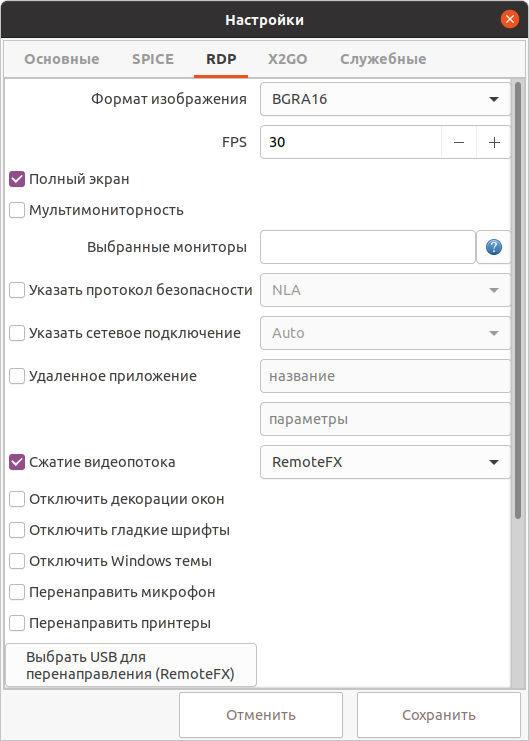
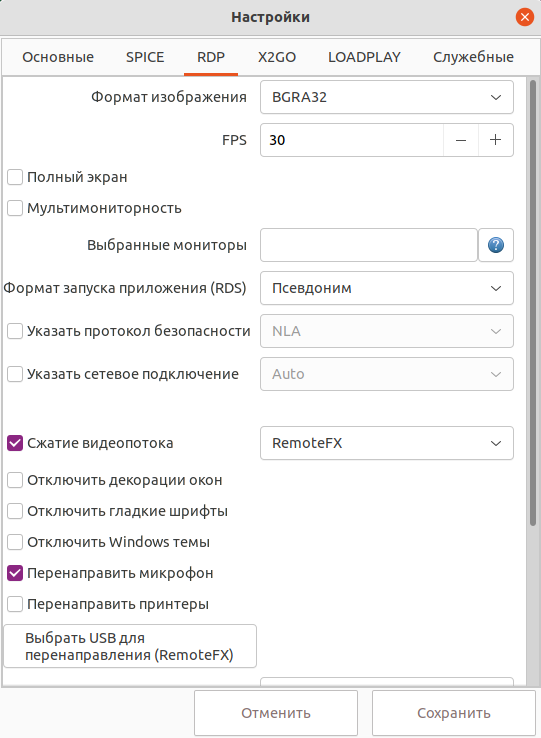
FEATURE TG-16857 Doc

Changed region(s): [[0.0, 0.0, 1.0, 1.0], [0.4839, 0.561, 0.6654, 0.6545]]

diff --git a/backend/web_app/auth/handlers.py b/backend/web_app/auth/handlers.py
@@ -157,7 +157,7 @@ class LogoutHandler(BaseHttpHandler, ABC):
 class VersionHandler(BaseHttpHandler, ABC):
     async def get(self):
         info_dict = {
-            "version": "4.0.0",
+            "version": "4.1.0",
             "year": "2019-2022",
             "url": "https://mashtab.org",
             "copyright": "© mashtab.org",

diff --git a/docs/ru/connect/settings/rdp_settings.md b/docs/ru/connect/settings/rdp_settings.md
@@ -8,36 +8,38 @@
 
 1. Формат изображения определяет количество используемых цветов. Рекомендуется **BGRA32**.
 
-1. Параметр **FPS** задает частоту обновления экрана. Обновляются только изменившиеся области изображения.
+2. Параметр **FPS** задает частоту обновления экрана. Обновляются только изменившиеся области изображения.
 Параметр влияет на загрузку процессора клиента и не влияет на сетевой трафик.
 
-1. При выборе пункта **Полный экран** приложение раскроется на полный экран.
+3. При выборе пункта **Полный экран** приложение раскроется на полный экран.
 
-1. При включенной опции **Мультимониторность** приложение использует до **3** доступных мониторов. Рекомендуется, чтобы 
+4. При включенной опции **Мультимониторность** приложение использует до **3** доступных мониторов. Рекомендуется, чтобы 
 на всех мониторах была задана одинаковая высота изображения. 
 
-1. **Выбранные мониторы**. Указать, какие клиентские мониторы должны использоваться для отображения 
+5. **Выбранные мониторы**. Указать, какие клиентские мониторы должны использоваться для отображения 
 удаленного рабочего стола. Мониторы должны иметь обшие стороны. Параметр
 задается как список id мониторов через запятую. Например: 0,1 - использовать
 мониторы с id 0 и 1.  Чтобы узнать идентификаторы(номера) текущих клиентских мониторов нажмите на знак вопроса.
 Для использования более одного монитора должна быть активирована опция **Мультимониторность**.
 
-1. Если указать сетевое подключение, то RDP-сервер будет адаптировать параметры подключения в зависимости от выбранного 
+6. **Формат запуска приложения (RDS)** определяет вид строкового идентификатора приложения для запуска на RDS.
+ 
+7. Если указать сетевое подключение, то RDP-сервер будет адаптировать параметры подключения в зависимости от выбранного 
 режима для достижения оптимального использования сетевого трафика.
 
-1. При включенной опции **Перенаправлять принтеры** сетевые принтеры будут перенаправлены в ВМ.
+8. При включенной опции **Перенаправлять принтеры** сетевые принтеры будут перенаправлены в ВМ.
 
-1. При включенной опции **Сжатие видеопотока** будет использован указанный cтандарт сжатия видео.
+9. При включенной опции **Сжатие видеопотока** будет использован указанный cтандарт сжатия видео.
 Поддерживаются **AVC420/AVC444/RemoteFX** на Linux и **AVC420/RemoteFX** на Windows.
 
-1. При нажатии на кнопку **Выбрать USB для перенаправления** откроется диалог выбора USB-устройств, которые
+10. При нажатии на кнопку **Выбрать USB для перенаправления** откроется диалог выбора USB-устройств, которые
 будут перенаправлены. Сервер RDP должен поддерживать технологию **RemoteFX USB Redirection**. 
 На клиенте у текущего пользователя должны быть права на открытие конкретных USB-устройств.
  
-1. Поле **Перенаправляемые папки** предназначено для задания списка папок, которые будут перенаправлены в ВМ. 
+11. Поле **Перенаправляемые папки** предназначено для задания списка папок, которые будут перенаправлены в ВМ. 
 Перечислите папки через точку с запятой либо выберите их с помощью селектора **Добавить папку**.
  
-1. При включенной опции **Логировать отладочную информацию**, будет сохраняться в файл отладочная информация
+12. При включенной опции **Логировать отладочную информацию**, будет сохраняться в файл отладочная информация
 при подключении по RDP. Активизация данной опции может замедлить работу приложения. 
             
              

diff --git a/docs/ru/connect/ini_file/example.md b/docs/ru/connect/ini_file/example.md
@@ -2,58 +2,55 @@
 
 Ниже представлен пример файла настроек приложения **VeiL Connect**.
 
-```
 
-[General]
-cur_remote_protocol_index=0
-log_output_to_file=0
+[General]  
+cur_remote_protocol_index=0  
+log_output_to_file=0  
 
-[RemoteViewerConnect]
-ip=192.168.11.145
-port=443
-username=user2
-password=Bazalt1!
-is_ldap=0
-domain=
-to_save_pswd=1
-connect_to_pool=1
-pool_id=2affd5d-eaf2-4c7e-9b19-887cb9a0a862
+[RemoteViewerConnect]  
+ip=192.168.11.145  
+port=443  
+username=user2  
+password=Bazalt1!  
+is_ldap=0  
+domain=  
+to_save_pswd=1  
+connect_to_pool=1  
+pool_id=2affd5d-eaf2-4c7e-9b19-887cb9a0a862  
 
-[SpiceSettings]
-is_spice_client_cursor_visible=0
-full_screen=1
-monitor-mapping=0:1;1:2
+[SpiceSettings]  
+is_spice_client_cursor_visible=0  
+full_screen=1  
+monitor-mapping=0:1;1:2  
 
-[RDPSettings]
-rdp_pixel_format=BGRA16
-rdp_fps=30
-is_rdp_vid_comp_used=1
-rdp_shared_folders=
-is_multimon=0
-full_screen=1
-selectedmonitors=0
-redirect_printers=1
-is_remote_app=0
-remote_app_program=
-remote_app_options=
-is_sec_protocol_assigned=0
-sec_protocol_type=nla
-is_rdp_network_assigned=0
-rdp_network_type=auto
-disable_rdp_decorations=0
-disable_rdp_fonts=0
-disable_rdp_themes=0
-allow_desktop_composition=0
-usb_devices=
-use_rdp_file=0
-rdp_settings_file=
-rdp_args=+menu-anims,+home-drive
-
-[X2GoSettings]
-app_type=1
-session_type=XFCE
-conn_type_assigned=1
-conn_type=modem
-full_screen=1
-
-```
+[RDPSettings]  
+rdp_pixel_format=BGRA16  
+rdp_fps=30  
+is_rdp_vid_comp_used=1  
+rdp_shared_folders=  
+is_multimon=0  
+full_screen=1  
+selectedmonitors=0  
+redirect_printers=1  
+is_remote_app=0  
+remote_app_program=  
+remote_app_options=  
+is_sec_protocol_assigned=0  
+sec_protocol_type=nla  
+is_rdp_network_assigned=0  
+rdp_network_type=auto  
+disable_rdp_decorations=0  
+disable_rdp_fonts=0  
+disable_rdp_themes=0  
+allow_desktop_composition=0  
+usb_devices=  
+use_rdp_file=0  
+rdp_settings_file=  
+rdp_args=+menu-anims,+home-drive  
+  
+[X2GoSettings]  
+app_type=1  
+session_type=XFCE  
+conn_type_assigned=1  
+conn_type=modem  
+full_screen=1  

diff --git a/docs/ru/connect/possible_errors/rdp.md b/docs/ru/connect/possible_errors/rdp.md
@@ -69,19 +69,18 @@
 !!! example ""
     ![image](../../_assets/vdi/thin_client/RDP_server_NLA.jpg)
 
-## Ошибка Remote application error
+## Ошибка удаленного приложения (Remote application error)
 
 !!! example ""
     ![image](../../_assets/vdi/thin_client/remote_app_error.png)
+!!! example ""
+    ![image](../../_assets/vdi/thin_client/remote_app_error_2.png)
 
-Данная ошибка возникает, если выбранное для запуска приложение (**Настройки** -> **RDP** -> 
-**Запустить приложение**) не находится в списке разрешенных для запуска, либо задано неверное название приложения.
+Данная ошибка возникает, если формат запуска приложения не был принят сервером.
 
 Решение:
 
-- См. [Запуск в режиме RemoteApp](../settings/rdp_settings.md).
-- При подключении к RDS пулу деактивируйте **Запустить приложение** в настройках RDP, так как данная настройка
-имеет приоритет над выбором приложения на графической форме (окно с иконками приложений).
+ - В настройках VeiL Connect перейдите на вкладку RDP и смените формат запуска приложения(RDS).
  
 ## Изображение имеет многочисленные артефакты и искажения
  
@@ -120,3 +119,6 @@
  Решение:
  
  - Попробуйте переустановить VeiL Connect, выбрав в установщике сборку FreeRDP на основе OpenH264. 
+
+
+## 

diff --git a/docs/ru/connect/settings/loadplay_settings.md b/docs/ru/connect/settings/loadplay_settings.md
@@ -1,0 +1,17 @@
+# Настройки Loadplay
+
+Loadplay - протокол удаленного доступа на основе RDP. 
+Данный функционал добавлен в версии VeiL Connect 1.12.0 и VeiL брокере версии 4.1.0.
+
+## Подготовка на стороне удаленной машины
+
+- Установите сервер Loadplay.
+
+## Подготовка на стороне тонкого клиента
+
+- Установите клиент Loadplay.
+
+- Перейдите в Настройки VeiL Connect на вкладку LOADPLAY и укажите путь к установленному клиенту.
+
+!!! example "X2Go"
+    ![image](../../_assets/vdi/thin_client/loadplay_settings.png)

diff --git a/docs/ru/connect/possible_errors/common.md b/docs/ru/connect/possible_errors/common.md
@@ -68,6 +68,8 @@
 
 ```
 sudo sed -i '/mozilla\/DST_Root_CA_X3.crt/s/^/#/' /etc/ca-certificates.conf
+```
+```
 sudo update-ca-certificates --fresh
 ```
 
@@ -77,6 +79,7 @@ sudo update-ca-certificates --fresh
 
 ```
 sudo apt-get update -o Acquire::https::veil-update.mashtab.org::Verify-Peer=false
-
+```
+```
 sudo apt-get -o Acquire::https::veil-update.mashtab.org::Verify-Peer=false install veil-connect
 ```
